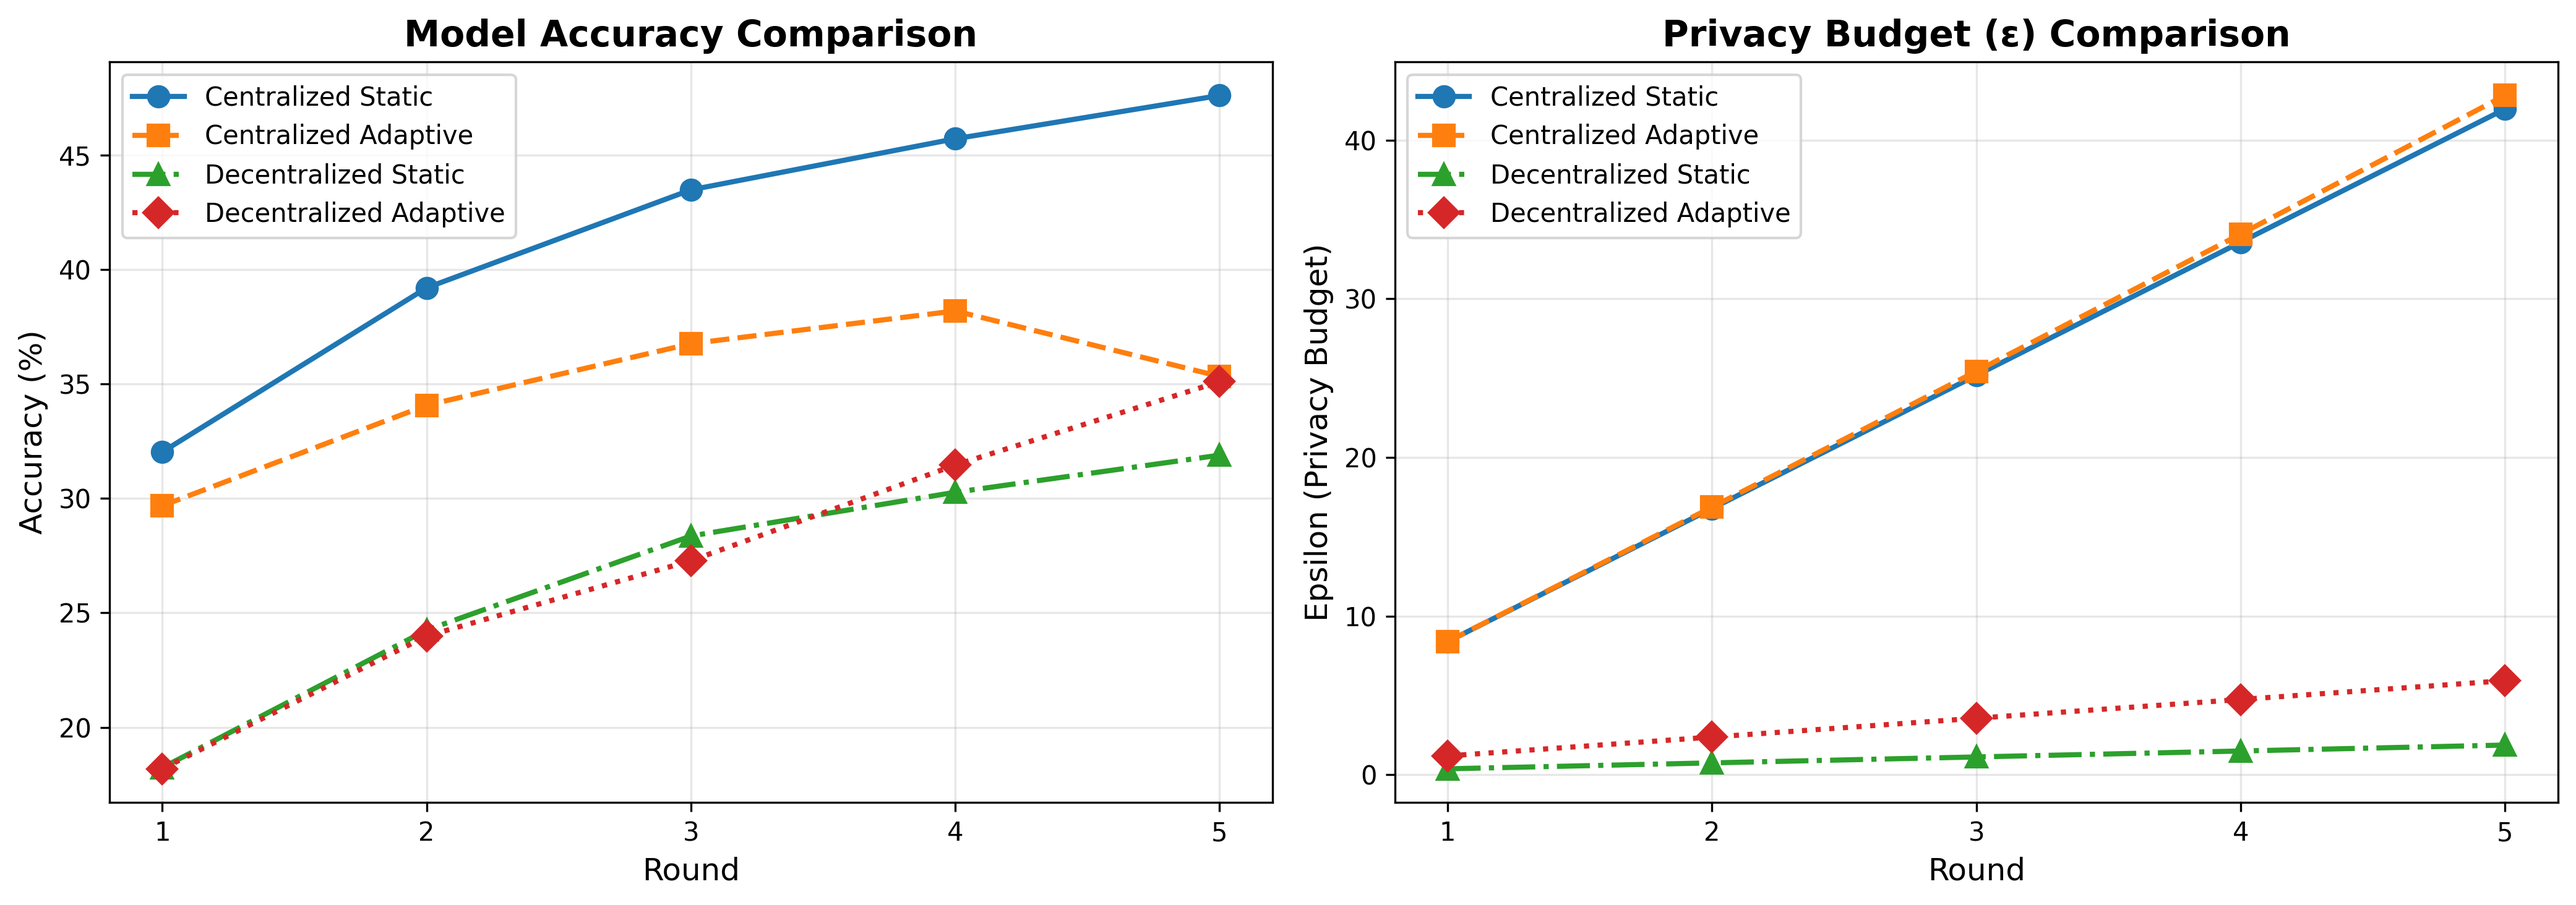
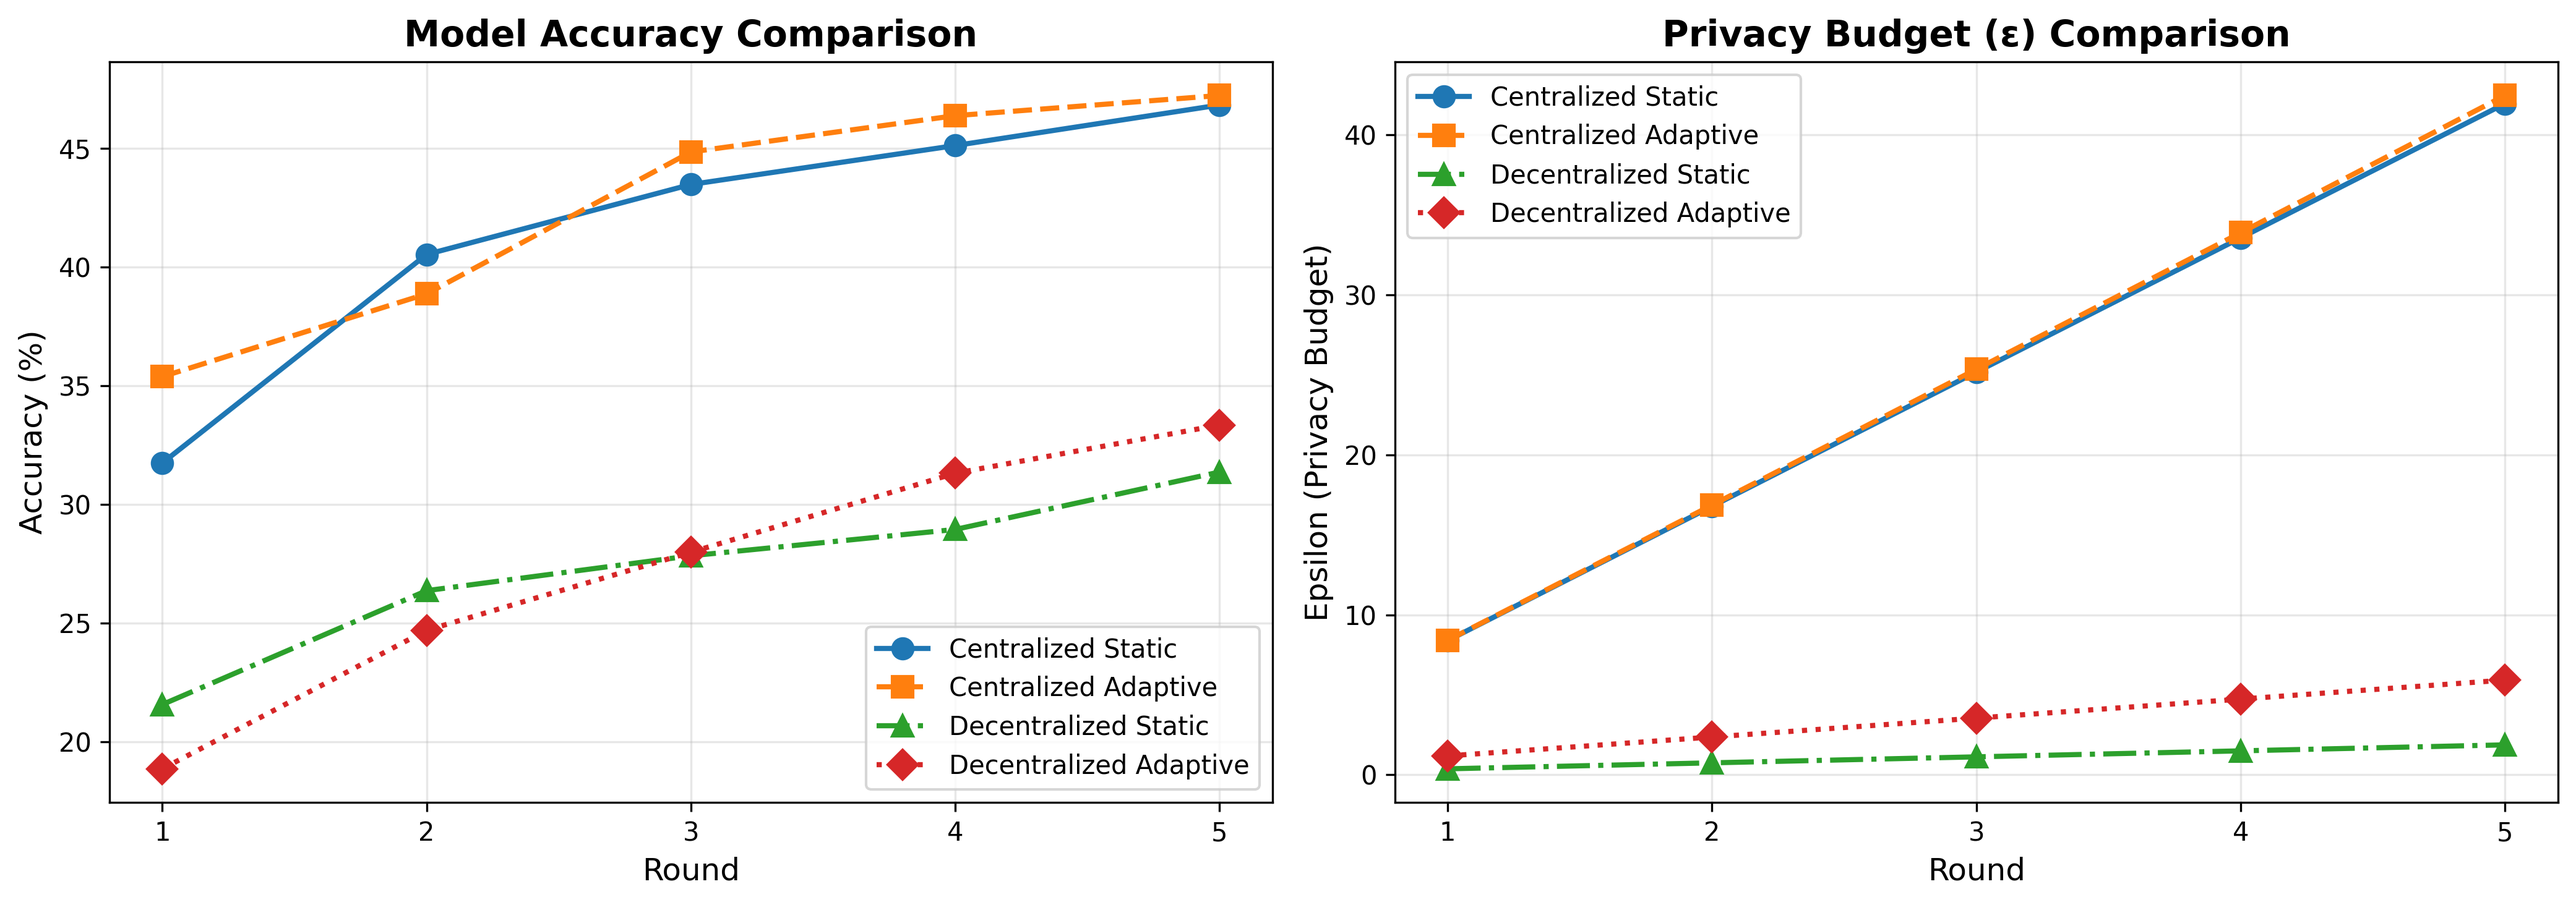
finished

diff --git a/src/main_experiment.py b/src/main_experiment.py
@@ -132,20 +132,20 @@ def run_experiment(experiment_name, privacy_strategy, decentralized=True):
                     loss.backward()
                     
                     # Collect gradient norms for adaptive clipping
-                    # For CDP: collect before clipping (raw gradients)
-                    # For LDP: collect after Opacus clipping (still useful for adaptation)
-                    if controller.strategy == 'adaptive':
-                        if decentralized:
-                            # For LDP: Opacus has already clipped, but we can still collect norms
-                            # from the wrapped model for adaptation purposes
-                            controller.collect_gradient_norm(client_model._module if hasattr(client_model, '_module') else client_model)
-                        else:
-                            # For CDP: collect raw gradient norms before clipping
-                            controller.collect_gradient_norm(client_model)
+                    # IMPORTANT: Only collect for LDP (decentralized) - CDP doesn't use adaptive clipping
+                    # because clients train without noise, so gradient norms are not meaningful for CDP
+                    if controller.strategy == 'adaptive' and decentralized:
+                        # For LDP: Opacus has already clipped, but we can still collect norms
+                        # from the wrapped model for adaptation purposes
+                        controller.collect_gradient_norm(client_model._module if hasattr(client_model, '_module') else client_model)
+                    # For CDP: Don't collect gradient norms - adaptive clipping not used in CDP
                     
                     # Clip gradients for CDP (if not using Opacus)
+                    # For CDP, use fixed clipping threshold (1.0) regardless of adaptive strategy
+                    # Adaptive clipping is only for LDP where clients add noise locally
                     if not decentralized:
-                        torch.nn.utils.clip_grad_norm_(client_model.parameters(), controller.max_grad_norm)
+                        clip_threshold = 1.0  # Fixed for CDP to maintain consistent noise scale
+                        torch.nn.utils.clip_grad_norm_(client_model.parameters(), clip_threshold)
                     
                     optimizer.step()
                     epoch_loss += loss.item()
@@ -180,7 +180,7 @@ def run_experiment(experiment_name, privacy_strategy, decentralized=True):
                     
                     # Adapt privacy parameters based on validation loss (Monitor-Decide-Act pattern)
                     # This implements the "Decide" and "Act" steps of the closed-loop controller
-                    controller.adapt_parameters(val_loss)
+                    controller.adapt_parameters(val_loss, debug=True, round_num=r+1)
             
             # Track epsilon for this round using RDP accountant
             if decentralized:
@@ -286,7 +286,9 @@ def run_experiment(experiment_name, privacy_strategy, decentralized=True):
                 # KEY DIFFERENCE: In CDP, noise is added ONCE at server with scale O(1)
                 # In LDP, each client adds noise independently, leading to O(√K) scaling
                 avg_noise_mult = np.mean([c.noise_multiplier for c in controllers])
-                avg_clip_norm = np.mean([c.max_grad_norm for c in controllers])
+                # For CDP, use fixed clipping norm (1.0) regardless of adaptive strategy
+                # Adaptive clipping only affects LDP, not CDP
+                avg_clip_norm = 1.0  # Fixed for CDP to maintain consistent noise scale
                 learning_rate = 0.01  # Match the optimizer LR
                 
                 # CDP: Server adds noise to aggregated gradients
@@ -294,6 +296,15 @@ def run_experiment(experiment_name, privacy_strategy, decentralized=True):
                 # Since weight_update ≈ lr * gradient, noise on weights ≈ lr * noise_on_gradients
                 cdp_noise_mult = avg_noise_mult / np.sqrt(NUM_CLIENTS)  # More efficient
                 cdp_noise_scale = learning_rate * cdp_noise_mult * avg_clip_norm
+                
+                # Debug output for CDP noise
+                if controllers[0].strategy == 'adaptive':
+                    print(f"   [DEBUG Round {r+1}] CDP Noise Application:")
+                    print(f"      Avg Client Noise Mult: {avg_noise_mult:.4f}")
+                    print(f"      CDP Noise Mult (reduced): {cdp_noise_mult:.4f} (÷√{NUM_CLIENTS})")
+                    print(f"      Avg Clip Norm: {avg_clip_norm:.4f}")
+                    print(f"      CDP Noise Scale: {cdp_noise_scale:.6f}")
+                    print(f"      Static CDP Noise Mult (for comparison): {1.0/np.sqrt(NUM_CLIENTS):.4f}")
                 
                 # Add Gaussian noise to weight updates (not absolute weights)
                 # This properly simulates adding noise to gradients before weight update
@@ -337,8 +348,22 @@ def run_experiment(experiment_name, privacy_strategy, decentralized=True):
                         # Standard Gaussian mechanism: epsilon = sqrt(2*ln(1.25/delta)) / sigma
                         # This is the standard formula for (epsilon, delta)-DP with Gaussian noise
                         # More accurate than simplified 1/(2*sigma^2) for finite delta
+                        #
+                        # IMPORTANT: This is an INVERSE relationship:
+                        #   - Lower noise (sigma) → Higher epsilon (more privacy cost)
+                        #   - Higher noise (sigma) → Lower epsilon (less privacy cost)
+                        # This is the fundamental privacy-utility trade-off in DP.
+                        # When adaptive reduces noise to improve accuracy, epsilon naturally increases.
                         cdp_epsilon = np.sqrt(2.0 * np.log(1.25 / TARGET_DELTA)) / cdp_noise_mult
                         # This gives reasonable epsilon values for single aggregation step
+                        
+                        # Debug output
+                        if controllers[0].strategy == 'adaptive':
+                            static_cdp_noise = 1.0 / np.sqrt(NUM_CLIENTS)
+                            static_cdp_epsilon = np.sqrt(2.0 * np.log(1.25 / TARGET_DELTA)) / static_cdp_noise
+                            epsilon_diff = cdp_epsilon - static_cdp_epsilon
+                            print(f"      Epsilon: {cdp_epsilon:.4f} (Static: {static_cdp_epsilon:.4f}, +{epsilon_diff:.4f})")
+                            print(f"      Note: Lower noise → Higher epsilon (privacy-utility trade-off)")
                     else:
                         cdp_epsilon = 0.01
                     
@@ -372,6 +397,12 @@ def run_experiment(experiment_name, privacy_strategy, decentralized=True):
         history['epsilon'].append(cumulative_epsilon)  # Store cumulative epsilon
         mode_str = "CDP" if not decentralized else "LDP"
         print(f"   >>> Round {r+1} Accuracy: {acc:.2f}% | Epsilon ({mode_str}): {cumulative_epsilon:.4f} (cumulative, +{round_epsilon:.4f} this round)")
+        
+        # Additional debug summary for adaptive centralized
+        if not decentralized and controllers[0].strategy == 'adaptive':
+            static_noise = 1.0 / np.sqrt(NUM_CLIENTS)
+            adaptive_noise = np.mean([c.noise_multiplier for c in controllers]) / np.sqrt(NUM_CLIENTS)
+            print(f"   [DEBUG Summary] Noise Comparison: Static={static_noise:.4f}, Adaptive={adaptive_noise:.4f} (ratio: {adaptive_noise/static_noise:.4f}x)")
 
     # Get cost analysis if decentralized
     cost_analysis = None

diff --git a/src/adaptive_privacy.py b/src/adaptive_privacy.py
@@ -145,7 +145,7 @@ class AdaptivePrivacyController:
         self.gradient_norms = []  # Store gradient norms for quantile calculation
         self.clipping_quantile = 0.75  # Use 75th percentile for clipping threshold
         self.min_clip_norm = 0.5  # Minimum clipping threshold
-        self.max_clip_norm = 5.0  # Maximum clipping threshold
+        self.max_clip_norm = 2.0  # Maximum clipping threshold (reduced from 5.0 to prevent instability)
         
         # Initialize Opacus
         self.privacy_engine = PrivacyEngine()
@@ -208,17 +208,21 @@ class AdaptivePrivacyController:
             # Use specified quantile
             new_clip_norm = quantile_value * 1.1  # 10% margin above quantile
         
-        # Bound the clipping threshold
+        # Bound the clipping threshold more aggressively
         new_clip_norm = max(self.min_clip_norm, min(self.max_clip_norm, new_clip_norm))
         
         # Smooth update: use exponential moving average to avoid sudden changes
-        alpha = 0.3  # Smoothing factor
+        # Use stronger smoothing (lower alpha) to prevent rapid growth
+        alpha = 0.2  # Reduced from 0.3 for more conservative updates
         self.max_grad_norm = alpha * new_clip_norm + (1 - alpha) * self.max_grad_norm
+        
+        # Additional safety: ensure we don't exceed max_clip_norm after smoothing
+        self.max_grad_norm = min(self.max_grad_norm, self.max_clip_norm)
         
         # Clear collected norms for next round
         self.gradient_norms = []
     
-    def adapt_parameters(self, val_loss):
+    def adapt_parameters(self, val_loss, debug=False, round_num=None):
         """
         Adaptive Privacy Mechanism - Closed-Loop Controller (Monitor-Decide-Act pattern)
         
@@ -234,6 +238,8 @@ class AdaptivePrivacyController:
         
         Args:
             val_loss: Validation loss Lt after local training epoch
+            debug: If True, print debugging information
+            round_num: Round number for debugging
             
         Returns:
             (noise_multiplier, max_grad_norm): Updated privacy parameters for next round
@@ -241,37 +247,65 @@ class AdaptivePrivacyController:
         if self.strategy == 'static':
             return self.noise_multiplier, self.max_grad_norm
 
+        # Store old values for debugging
+        old_noise_mult = self.noise_multiplier
+        old_clip_norm = self.max_grad_norm
+        old_prev_loss = self.prev_loss
+
         # --- ADAPTIVE LOGIC ---
         # 1. Adaptive Clipping (based on gradient norm quantiles):
-        # First adapt clipping threshold based on observed gradient norms
-        self.adapt_clipping_threshold()
-
+        # Only adapt clipping if we have gradient norms collected (i.e., for LDP)
+        # For CDP, gradient norms are not collected, so clipping stays at default
+        if len(self.gradient_norms) > 0:
+            self.adapt_clipping_threshold()
+        # For CDP: Keep clipping threshold at 1.0 (default) to maintain consistent noise scale
+        
         # 2. Noise Adaptation (Decide step):
         # Calculate scaling factor αt based on loss trend
         # If Lt < Lt-1 (learning is progressing), reduce σ by decay factor γ = 0.98
         # BUT: Only reduce if improvement is significant to avoid premature noise reduction
         loss_improvement = (self.prev_loss - val_loss) / self.prev_loss if self.prev_loss > 0 else 0
         
-        if val_loss < self.prev_loss and loss_improvement > 0.01:  # Require at least 1% improvement
-            # Improvement detected: Reduce noise multiplier by decay factor γ = 0.98
-            # This allows fine-tuning with less noise, spending privacy budget efficiently
-            # Use slower decay to avoid reducing noise too aggressively
-            self.noise_multiplier = max(0.5, self.noise_multiplier * 0.99)  # Slower decay: 0.99 instead of 0.98
+        # More conservative thresholds: require larger improvements before reducing noise
+        if val_loss < self.prev_loss and loss_improvement > 0.02:  # Increased from 0.005 to 0.02 (2% improvement required)
+            # Significant improvement detected: Reduce noise multiplier slowly
+            # Use very slow decay to avoid reducing noise too aggressively
+            self.noise_multiplier = max(0.7, self.noise_multiplier * 0.995)  # Changed to 0.995 for very slow decay, min 0.7
             self.patience_counter = 0
-        elif val_loss < self.prev_loss:
-            # Small improvement: Keep noise level (don't reduce yet)
+            action = "REDUCE_NOISE"
+        elif val_loss < self.prev_loss and loss_improvement > 0.01:  # Moderate improvement: keep noise
+            # Moderate improvement: Keep noise level (don't reduce yet)
             self.noise_multiplier = self.noise_multiplier
             self.patience_counter = 0
+            action = "KEEP_NOISE"
+        elif val_loss < self.prev_loss:
+            # Small improvement: Slightly reduce noise (very conservative)
+            self.noise_multiplier = max(0.7, self.noise_multiplier * 0.998)
+            self.patience_counter = 0
+            action = "SLIGHT_REDUCE"
         else:
             # Stagnation or increase: Increase noise to prevent overfitting/memorization
             # This conserves privacy budget when model is not learning effectively
-            self.noise_multiplier = min(2.0, self.noise_multiplier * 1.02)  # Slower increase: 1.02 instead of 1.05
+            self.noise_multiplier = min(1.5, self.noise_multiplier * 1.01)  # Slower increase, cap at 1.5
             self.patience_counter += 1
+            action = "INCREASE_NOISE"
 
         # 3. Loss-based Clipping Adjustment (fallback):
         # If gradients are exploding (loss spike), tighten the clip 
-        if val_loss > self.prev_loss * 1.1: 
+        # Only adjust if we're using adaptive clipping (LDP)
+        if len(self.gradient_norms) > 0 and val_loss > self.prev_loss * 1.1: 
              self.max_grad_norm = max(self.min_clip_norm, self.max_grad_norm * 0.9)
+             clip_action = "DECREASE_CLIP"
+        else:
+             clip_action = "KEEP_CLIP"
+        
+        # Debug output
+        if debug:
+            print(f"   [DEBUG Round {round_num}] Adaptive Parameters:")
+            print(f"      Validation Loss: {val_loss:.4f} (prev: {old_prev_loss:.4f}, improvement: {loss_improvement*100:.2f}%)")
+            print(f"      Noise Multiplier: {old_noise_mult:.4f} → {self.noise_multiplier:.4f} ({action})")
+            print(f"      Clip Norm: {old_clip_norm:.4f} → {self.max_grad_norm:.4f} ({clip_action})")
+            print(f"      Patience Counter: {self.patience_counter}")
         
         # Update previous loss for next comparison (Monitor step)
         self.prev_loss = val_loss
@@ -353,4 +387,5 @@ class AdaptivePrivacyController:
             steps=num_steps
         )
         
+        return temp_accountant.get_epsilon(delta=delta)
         return temp_accountant.get_epsilon(delta=delta)
